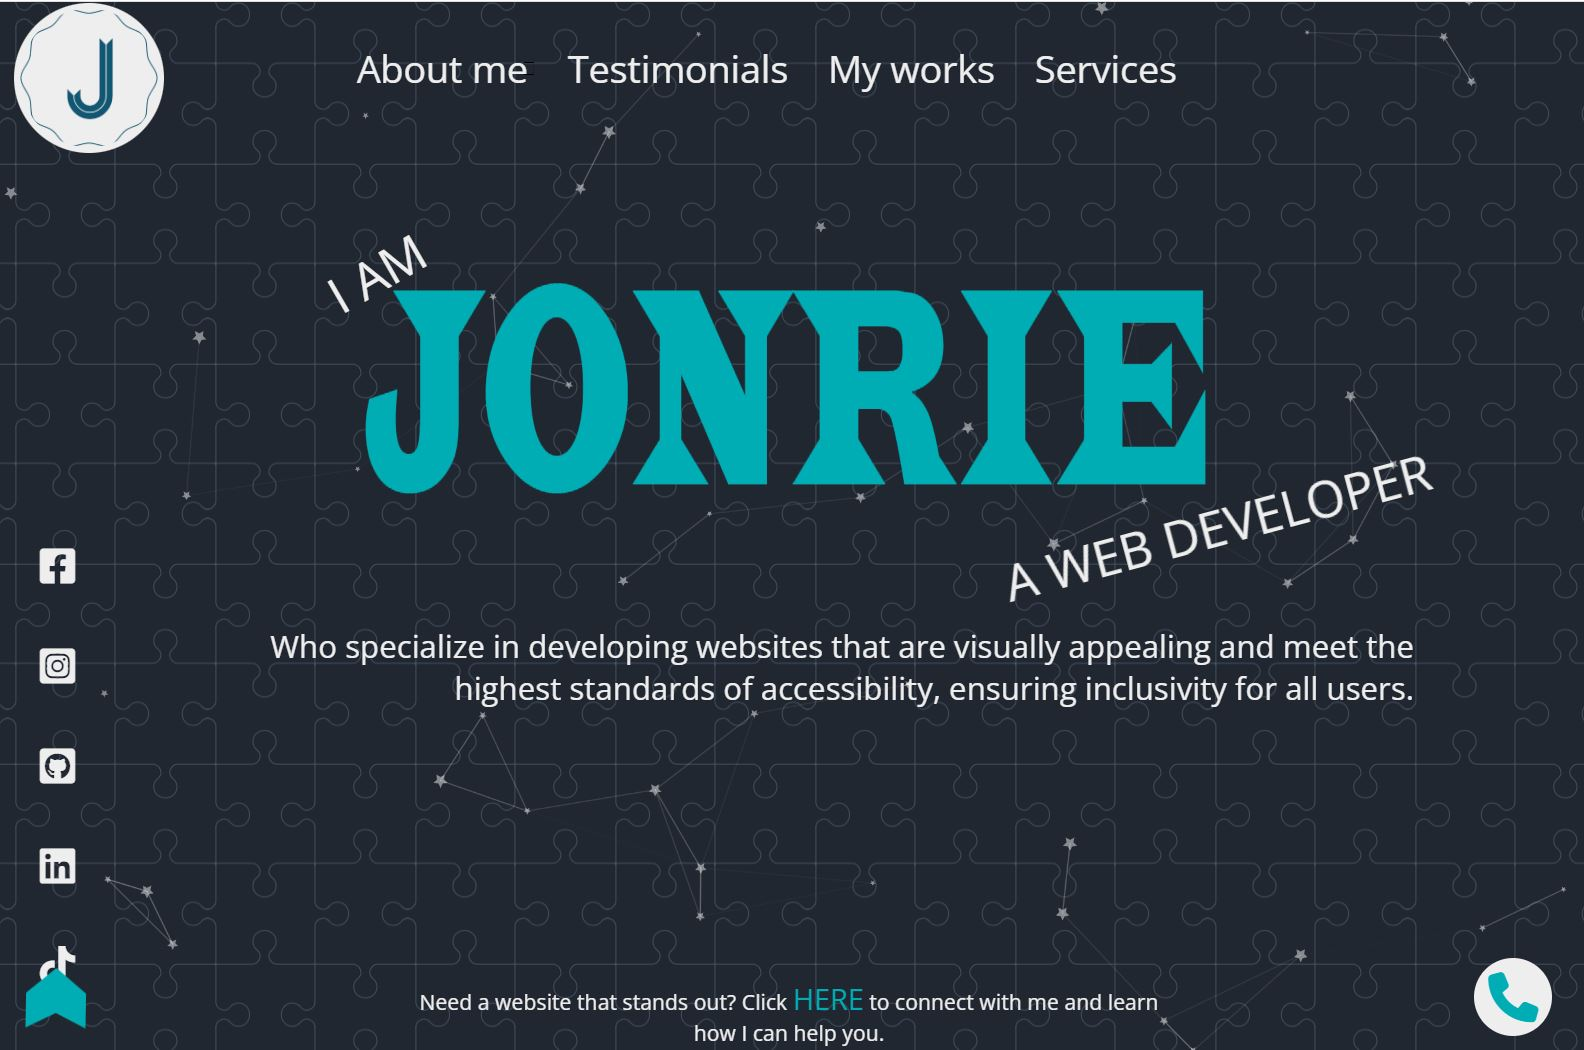
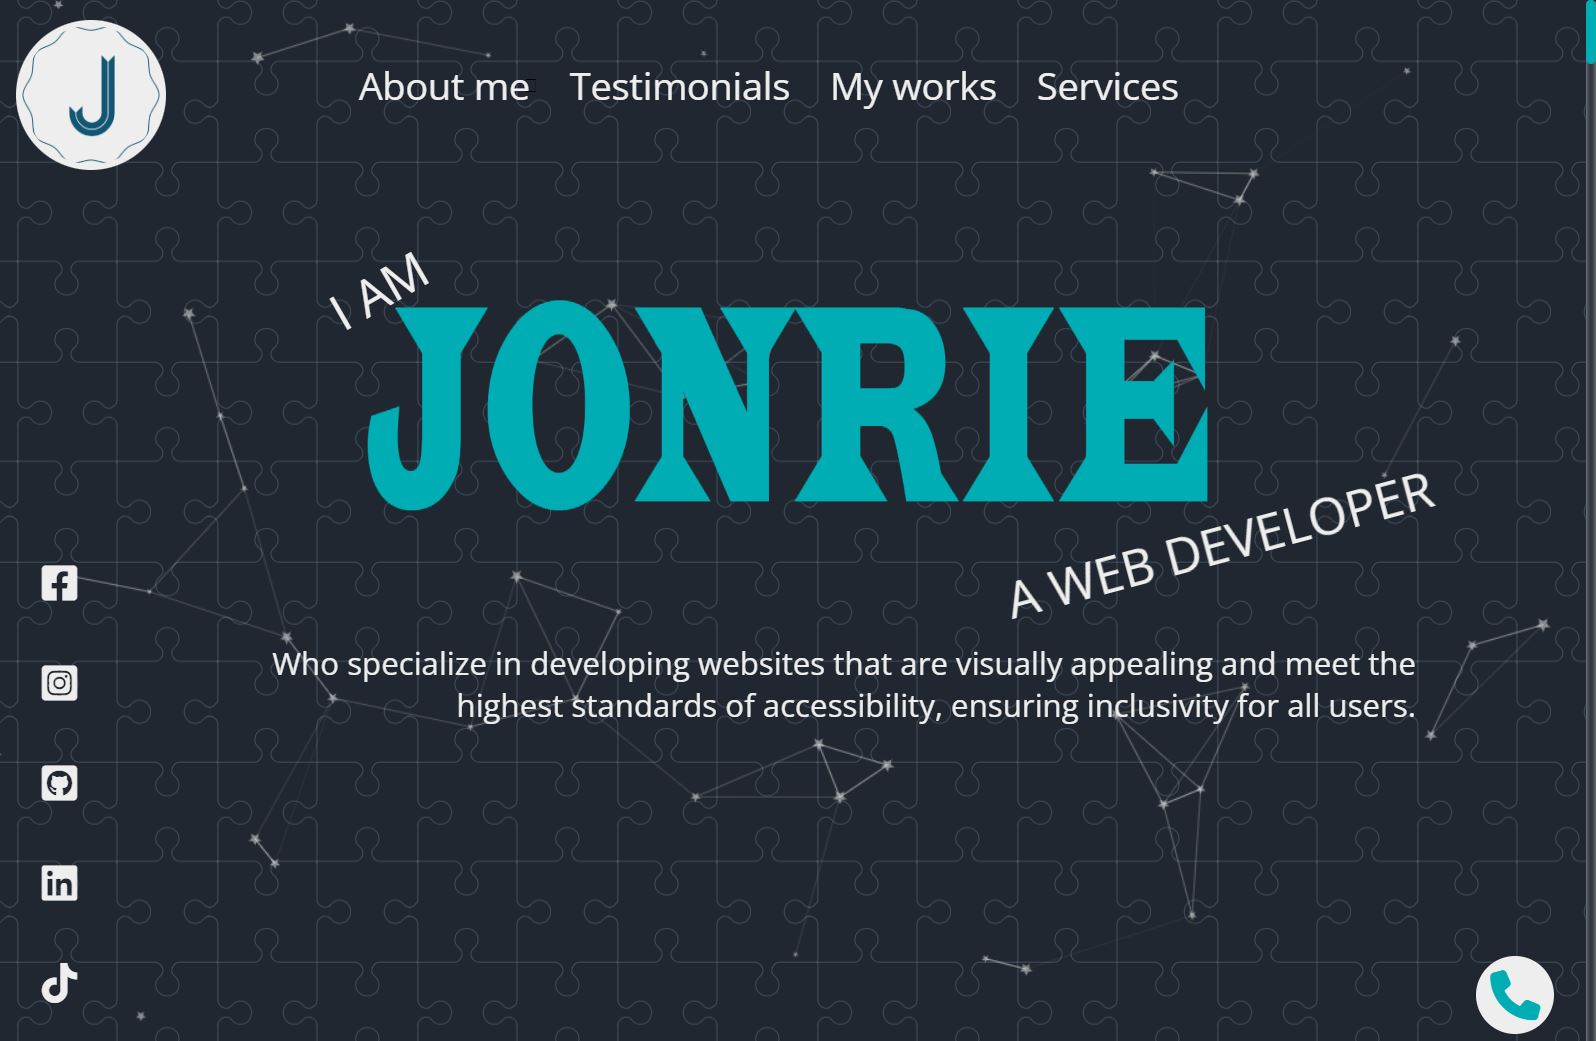
remove dedundant contact btn

diff --git a/src/css/home.css b/src/css/home.css
@@ -165,15 +165,19 @@
     cursor: pointer;
 }
 .main #contact::after{
-    content: "Contact";
+    content: "Connect with me";
     padding: .4rem;
     position: absolute;
-    top: -1.5rem;
-    left: -1rem;
+    top: -2.9rem;
+    left: -.3rem;
     font-size: .9rem;
     color: #fff;
     transition: 1.3s linear;
     opacity: 0;
+    line-height: 1.2rem;
+   
+    font-family: var(--sans);
+    font-weight: 500;
 }
 .main #contact:hover::after{
     opacity: 1;
@@ -413,28 +417,6 @@ margin-left: -2rem;
     word-break: break-word;
 }
 
-/* p */
-.homeTextCon >p{
-    color: #EEEEEE;
-    font-family: var(--sans);
-    position: absolute;
-    bottom: -28rem;
-    left: 50%;
-    transform: translate(-50%,-50%);
-    font-size: 17px;
-    text-align: center;
-    padding: 0 2rem;
-}
-.homeTextCon >p >a{
-    color: #00ADB5;
-    text-decoration: none;
-    font-size: 23px;
-    text-transform: uppercase;
-}
-
-
-
-
 
 
 /* media query */
@@ -587,16 +569,7 @@ margin-left: -2rem;
 
 
 
-/* p */
-.homeTextCon >p{
-    font-size: 14px;
-}
-.homeTextCon >p >a{
-    font-size: 19px;
-}
 
-
-  
 
 
 }
@@ -625,17 +598,10 @@ margin-left: -2rem;
     }
 
 
-      /* h4 */
-  .homeTextCon >h4{
-    bottom: -14rem;
-    font-size: 13px;
-    max-width: 200px;
-}
-
-/* p */
-.homeTextCon >p{
-    display: none;
-}
+         /* h4 */
+         .homeTextCon >h4{
+            display: none;
+         }
 
 
 }
@@ -644,10 +610,7 @@ margin-left: -2rem;
     .homeTextCon .subTextCon .aWebDeveloper{
         bottom: -11rem;
     }
-         /* h4 */
-  .homeTextCon >h4{
-   display: none;
-}
+
 
 
 }

diff --git a/src/components/Home.jsx b/src/components/Home.jsx
@@ -158,8 +158,6 @@ const Home = ()=>{
                 <span className="aWebDeveloper">A WEB DEVELOPER</span>
             </div>
             <h4>Who specialize in developing websites that are visually appealing and meet the highest standards of accessibility, ensuring inclusivity for all users.</h4>
-
-            <p>Need a website that stands out? Click <a href="#letsTalk">here</a> to connect with me and learn how I can help you.</p>
         </div>
 
 
